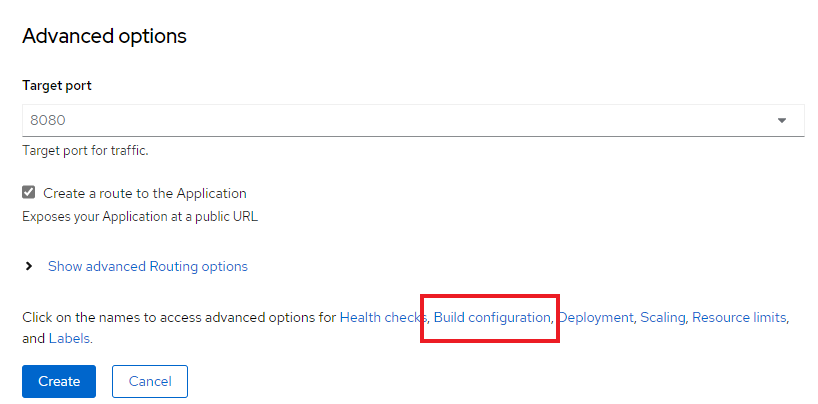
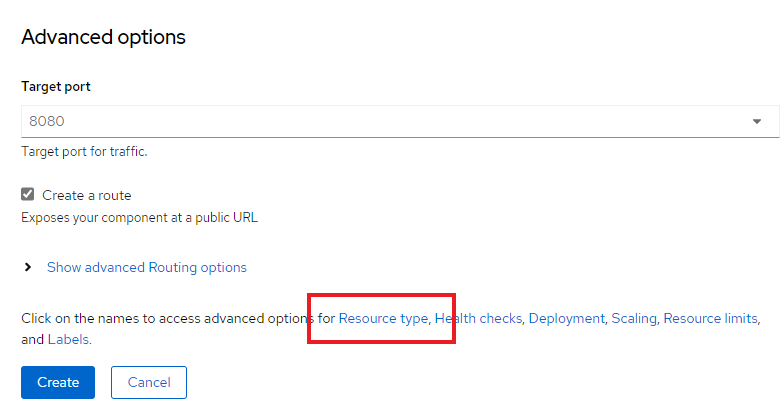
Updated to OpenShift version 4.12

diff --git a/readme.md b/readme.md
@@ -62,9 +62,17 @@ Next, choose the Builder Image option and make sure the Java builder is selected
 
 ![Choose builder image](images/select_builder_image.png)
 
+Scroll down to the Advanced options section and select the option to change the Resource type:
+
+![Select Resource type](images/advanced_options.png)  
+
+Choose the Deployment option:  
+
+![Deployment resource type](images/resource_type_deployment.png)  
+
 Near the bottom of the page, click the `Build Configuration` link:
 
-![Build Configuration](images/advanced_options.png)
+![Build Configuration](images/advanced_options_build_configuration.png)
 
 Add the following environment variables, as displayed in the following screen capture:
 
